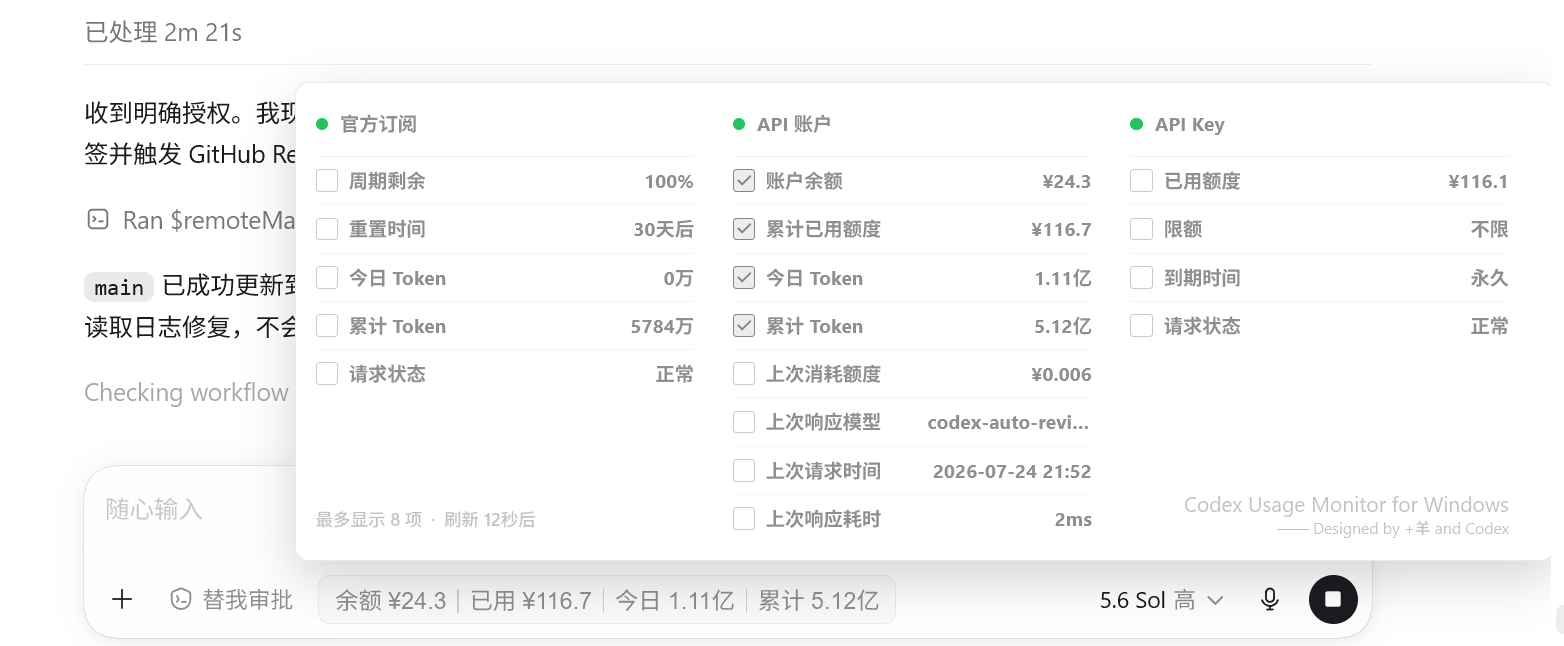
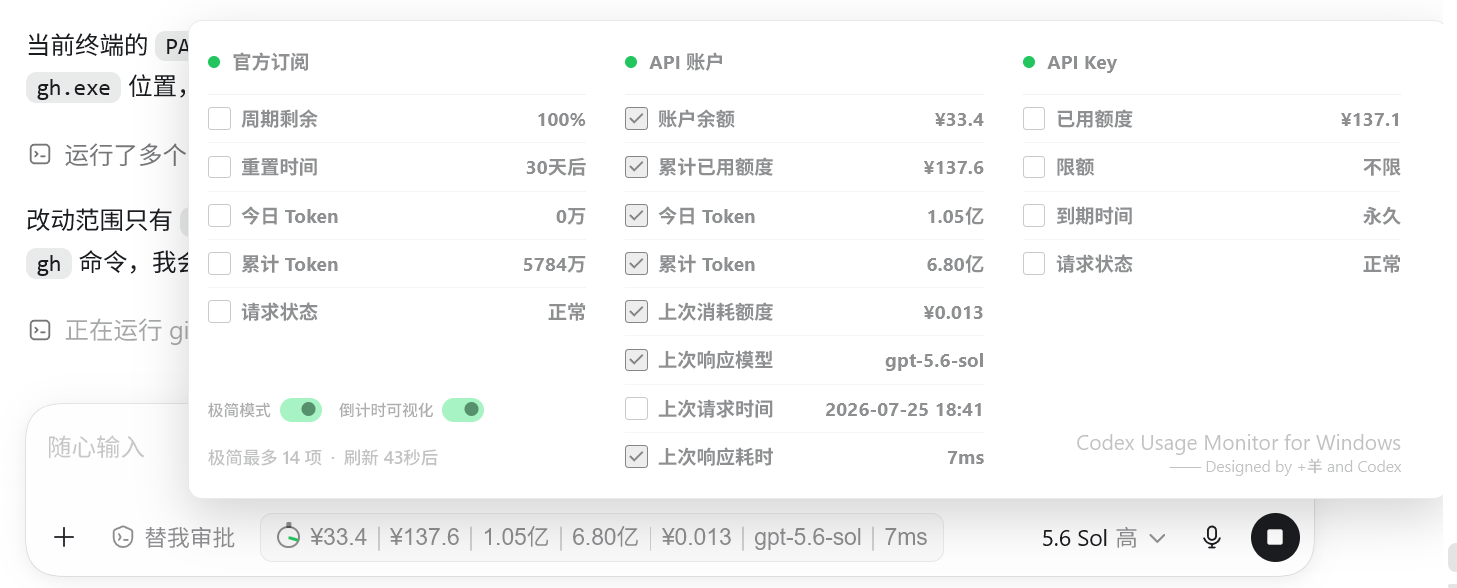
Update README monitor screenshots

diff --git a/README.md b/README.md
@@ -7,9 +7,17 @@
 
 监视栏位于“替我审批”右侧。普通模式最多显示 8 项数据，极简模式最多显示 14 项。截图仅用于界面示意，不包含 API key 或访问令牌。
 
-![Codex Usage Monitor 折叠监视栏](docs/images/monitor-collapsed.png)
+**普通模式**
+
+![Codex Usage Monitor 普通模式监视栏](docs/images/monitor-collapsed.png)
+
+**极简模式**
+
+![Codex Usage Monitor 极简模式监视栏](docs/images/monitor-minimal.png)
 
 点击监视栏后可同时查看官方订阅、API 账户和 API Key 三类数据。
+
+**展开面板**
 
 ![Codex Usage Monitor 三栏展开面板](docs/images/monitor-expanded.png)
 
